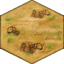
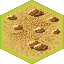
* Factory animation.

diff --git a/MobileClient/www/Javascript/Render/Systems/TileStructureRenderingSystem.js b/MobileClient/www/Javascript/Render/Systems/TileStructureRenderingSystem.js
@@ -122,7 +122,7 @@ var TileStructureRenderingSystem = function (m_renderer) {
 			return;
 
 		if (params.name == TileStructureRenderingSystem.OVERLAY_SPRITE_ANIMATOR)
-			params.entity.CAnimations.animators[TileStructureRenderingSystem.OVERLAY_SPRITE_ANIMATOR].pauseSequence('Idle');
+			IdleAnimationsSystem.playRandomIdleAnimation(params.entity.CAnimations.animators[TileStructureRenderingSystem.OVERLAY_SPRITE_ANIMATOR]);
 	}
 }
 

diff --git a/MobileClient/www/Assets/Render/SpriteAnimations/World/Factory.js b/MobileClient/www/Assets/Render/SpriteAnimations/World/Factory.js
@@ -6,17 +6,20 @@ SpriteAnimations.World.Factory = {
 	frameWidth: 64,
 	frameHeight: 64,
 
-	anchorY: 5,
-	
-	framesPerRow: 0,
-
-	speed: 10,
+	speed: 16,
 	
 	sequences: [
 		{
 			name: 'Idle',
 			startIndex: 0,
 			frames: 1,
+		},
+
+
+		{
+			name: 'Idle0',
+			startIndex: 0,
+			frames: 3,
 		},
 	]
 };
